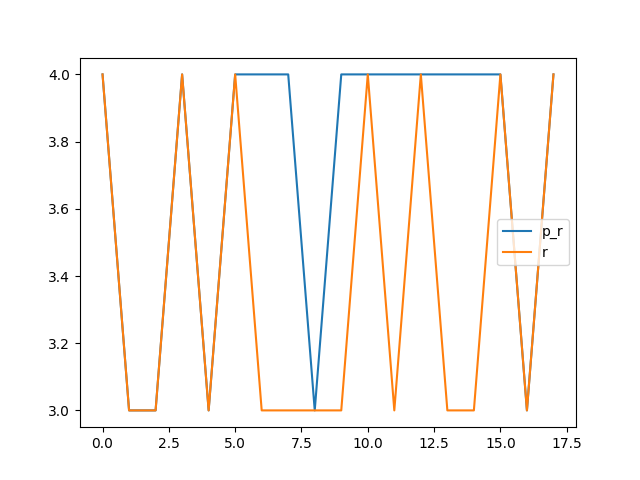
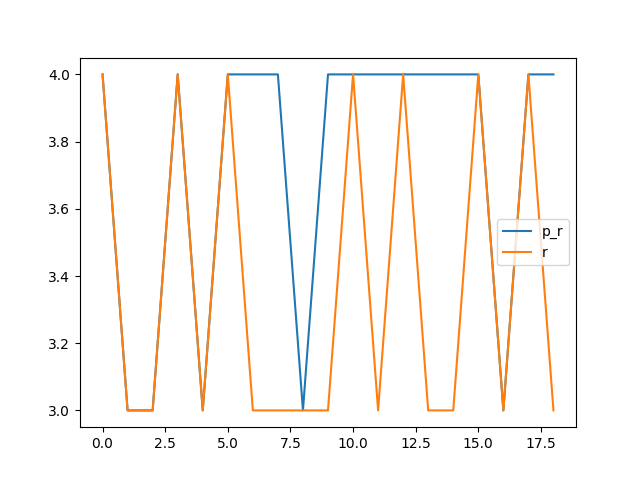
0x0012

diff --git a/benchmark.md b/benchmark.md
@@ -34,16 +34,18 @@ Synthesising 0x0010 pexact:152 r=3 exact:152 r=3
 
 Synthesising 0x0011 pexact:182 r=4 exact:326 r=4
 
+Synthesising 0x0012 pexact:208 r=4 exact:224 r=3
+
 ```mermaid
 xychart-beta
     title "Comparison powertwoexact twoexact"
-    x-axis [0, 1, 2, 3, 4, 5, 6, 7, 8, 9, 10, 11, 12, 13, 14, 15, 16, 17]
+    x-axis [0, 1, 2, 3, 4, 5, 6, 7, 8, 9, 10, 11, 12, 13, 14, 15, 16, 17, 18]
     y-axis "Switching Activity" 0-->352
-    line [96, 152, 152, 182, 152, 182, 208, 182, 152, 208, 182, 182, 182, 182, 182, 182, 152, 182]
-    line [192, 152, 152, 312, 152, 352, 224, 192, 192, 224, 352, 216, 320, 216, 216, 352, 152, 326]
-    line [171.77777777777777, 171.77777777777777, 171.77777777777777, 171.77777777777777, 171.77777777777777, 171.77777777777777, 171.77777777777777, 171.77777777777777, 171.77777777777777, 171.77777777777777, 171.77777777777777, 171.77777777777777, 171.77777777777777, 171.77777777777777, 171.77777777777777, 171.77777777777777, 171.77777777777777, 171.77777777777777]
-    line [238.55555555555554, 238.55555555555554, 238.55555555555554, 238.55555555555554, 238.55555555555554, 238.55555555555554, 238.55555555555554, 238.55555555555554, 238.55555555555554, 238.55555555555554, 238.55555555555554, 238.55555555555554, 238.55555555555554, 238.55555555555554, 238.55555555555554, 238.55555555555554, 238.55555555555554, 238.55555555555554]
-    bar [80, 60, 60, 80, 60, 80, 80, 80, 60, 80, 80, 80, 80, 80, 80, 80, 60, 80]
-    bar [80, 60, 60, 80, 60, 80, 60, 60, 60, 60, 80, 60, 80, 60, 60, 80, 60, 80]
+    line [96, 152, 152, 182, 152, 182, 208, 182, 152, 208, 182, 182, 182, 182, 182, 182, 152, 182, 208]
+    line [192, 152, 152, 312, 152, 352, 224, 192, 192, 224, 352, 216, 320, 216, 216, 352, 152, 326, 224]
+    line [173.68421052631578, 173.68421052631578, 173.68421052631578, 173.68421052631578, 173.68421052631578, 173.68421052631578, 173.68421052631578, 173.68421052631578, 173.68421052631578, 173.68421052631578, 173.68421052631578, 173.68421052631578, 173.68421052631578, 173.68421052631578, 173.68421052631578, 173.68421052631578, 173.68421052631578, 173.68421052631578, 173.68421052631578]
+    line [237.78947368421052, 237.78947368421052, 237.78947368421052, 237.78947368421052, 237.78947368421052, 237.78947368421052, 237.78947368421052, 237.78947368421052, 237.78947368421052, 237.78947368421052, 237.78947368421052, 237.78947368421052, 237.78947368421052, 237.78947368421052, 237.78947368421052, 237.78947368421052, 237.78947368421052, 237.78947368421052, 237.78947368421052]
+    bar [80, 60, 60, 80, 60, 80, 80, 80, 60, 80, 80, 80, 80, 80, 80, 80, 60, 80, 80]
+    bar [80, 60, 60, 80, 60, 80, 60, 60, 60, 60, 80, 60, 80, 60, 60, 80, 60, 80, 60]
 ```
 
